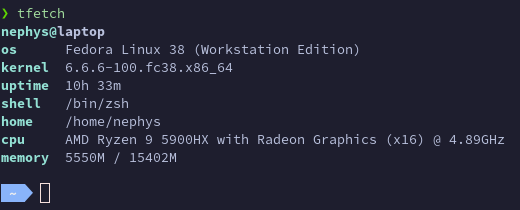
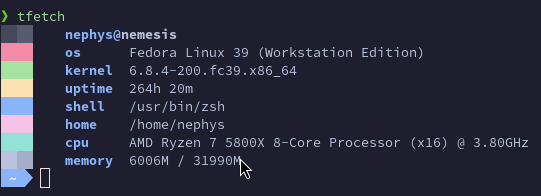
Added ANSI colors display

Changed region(s): [[0.0, 0.0306, 0.9846, 0.9796]]

diff --git a/src/main.c b/src/main.c
@@ -121,18 +121,24 @@ char* get_ram(void) {
     return result;
 }
 
+char* ansi_color(int id) {
+    static char result[47];
+    sprintf(result, "\x1b[48;5;%dm  \x1b[48;5;%dm  \x1b[0m", id, id + 8);
+    return result;
+}
+
 int main(int argc, char** argv) {
     struct utsname name;
-	uname(&name);
-	
-	printf("\033[1m\033[36m%s@\033[1m\033[37m%s\n", getenv("USER"),name.nodename);
-    printf("\033[1m\033[36mos\t\033[0;37m%s\n", get_os());
-	printf("\033[1m\033[36mkernel\t\033[0;37m%s\n", name.release);
-    printf("\033[1m\033[36muptime\t\033[0;37m%"PRIu64"h %"PRIu64"m\n", get_uptime() / 60 / 60, get_uptime() / 60 % 60);
-	printf("\033[1m\033[36mshell\t\033[0;37m%s\n", getenv("SHELL"));
-    printf("\033[1m\033[36mhome\t\033[0;37m%s\n", getenv("HOME"));
-	printf("\033[1m\033[36mcpu\t\033[0;37m%s\033[0m\n", get_cpu());
-	printf("\033[1m\033[36mmemory\t\033[0;37m%s\033[0m\n", get_ram());
+    uname(&name);
+
+    printf("%s\t\x1b[1;34m%s@\x1b[1;37m%s\n", ansi_color(0), getenv("USER"),name.nodename);
+    printf("%s\t\x1b[1;34mos\t\x1b[0;37m%s\n", ansi_color(1), get_os());
+    printf("%s\t\x1b[1;34mkernel\t\x1b[0;37m%s\n", ansi_color(2), name.release);
+    printf("%s\t\x1b[1;34muptime\t\x1b[0;37m%"PRIu64"h %"PRIu64"m\n", ansi_color(3), get_uptime() / 60 / 60, get_uptime() / 60 % 60);
+    printf("%s\t\x1b[1;34mshell\t\x1b[0;37m%s\n", ansi_color(4), getenv("SHELL"));
+    printf("%s\t\x1b[1;34mhome\t\x1b[0;37m%s\n", ansi_color(5), getenv("HOME"));
+    printf("%s\t\x1b[1;34mcpu\t\x1b[0;37m%s\033[0m\n", ansi_color(6), get_cpu());
+    printf("%s\t\x1b[1;34mmemory\t\x1b[0;37m%s\033[0m\n", ansi_color(7), get_ram());
 
     return 0;
 }
